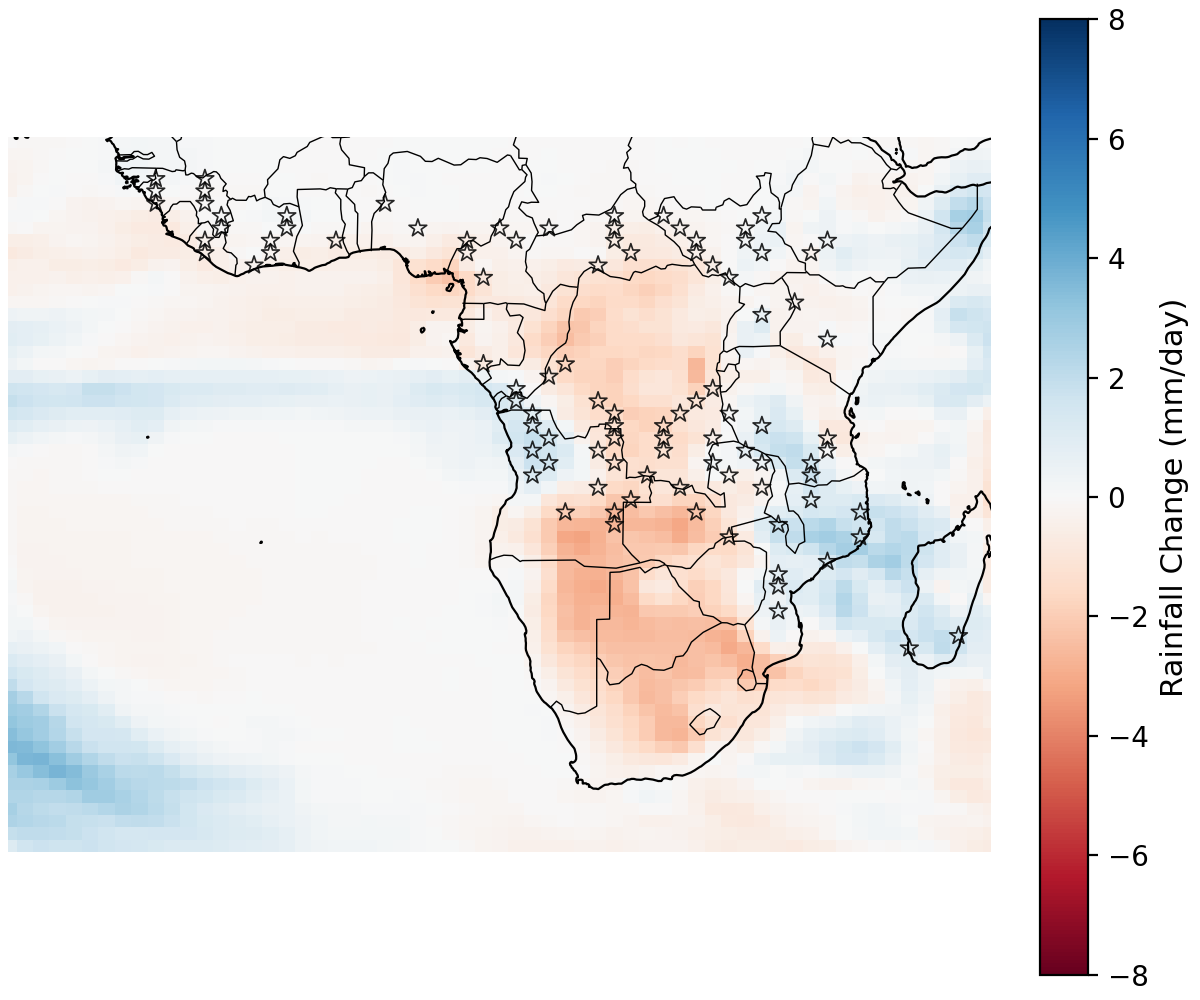
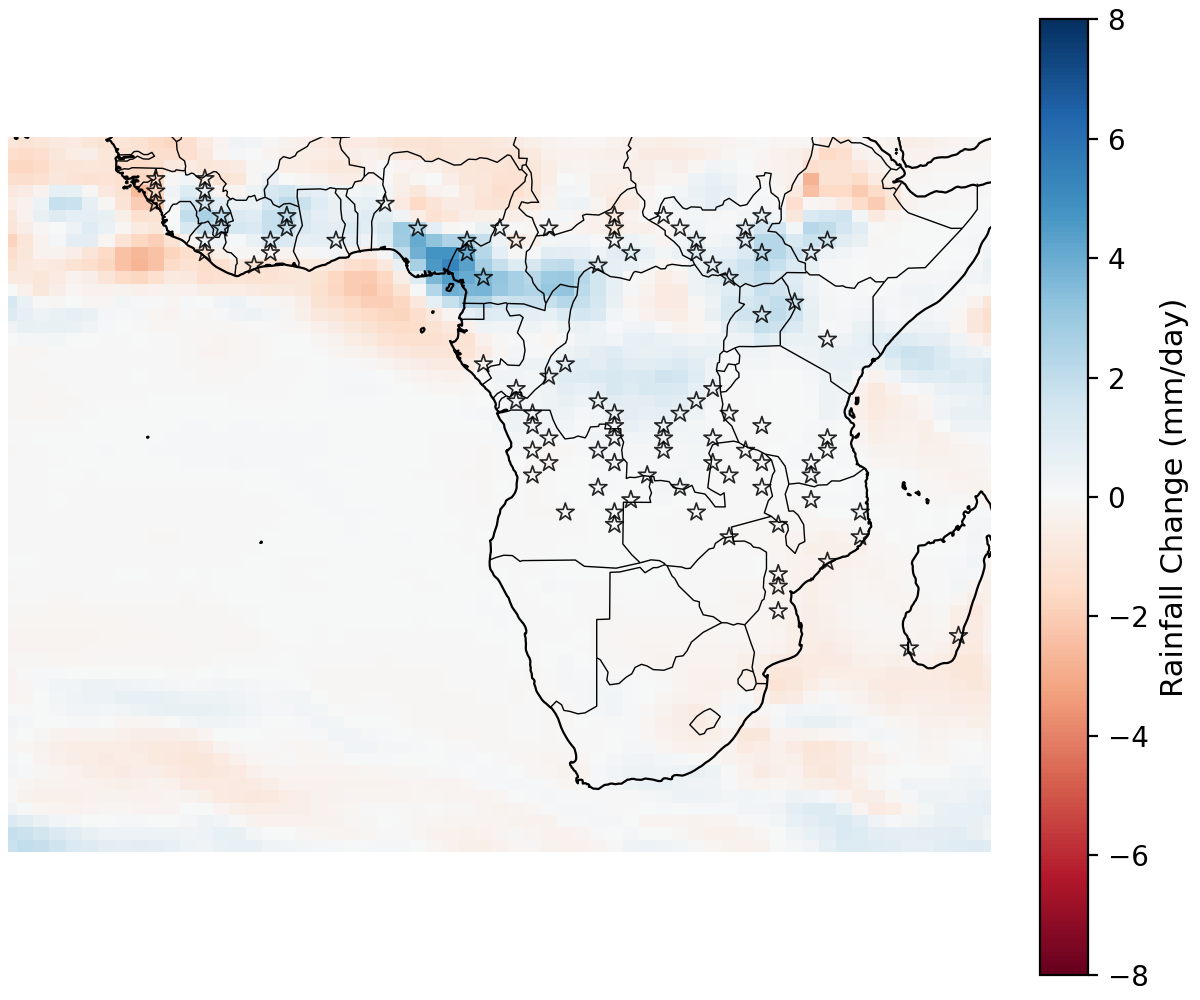
Fixed all landcover

diff --git a/main.js b/main.js
@@ -834,7 +834,6 @@ const monsoonJourneys = {
     region: "South Asia",
     steps: [
       {
-        label: "Baseline",
         img: "landcover/diff_seasonal_ISM_base.png",
         caption: "Change in seasonal rainfall for the ISM region",
         title: "Start with the big picture",
@@ -842,10 +841,9 @@ const monsoonJourneys = {
         bullets: []
       },
       {
-        label: "Forests",
         img: "landcover/diff_seasonal_ISM_forest.png",
         caption: "Triangles mark forested areas overlaid on the rainfall change map.",
-        title: "Forests on steeper slopes face rising flood and landslide risk",
+        title: "Forests",
         body: "In the Eastern Himalayas, projected drying weakens forest moisture and increases the risk of drought stress, wildfire, and ecosystem decline. In contrast, forests across the Deccan Plateau sit beneath much heavier monsoon rainfall, where steep terrain and saturated soils raise the risk of landslides, erosion, and flash flooding.",
         bullets: [
           "Protect forest cover to retain moisture, reduce wildfire risk, and stabilize fragile drying soils",
@@ -854,10 +852,9 @@ const monsoonJourneys = {
         ]
       },
       {
-        label: "Grasslands & wetlands",
         img: "landcover/diff_seasonal_ISM_grassland.png",
         caption: "Circles highlight grassland and wetland areas.",
-        title: "Floodplains and wetlands store or lose water",
+        title: "Grasslands & Wetlands",
         body: "Across the Himalayas, higher monsoon rainfall increases flood peaks, testing wetlands’ ability to slow and store excess water.",
         bullets: [
           "Restore and protect wetlands to absorb flood surges and reduce downstream flooding",
@@ -865,25 +862,13 @@ const monsoonJourneys = {
         ]
       },
       {
-        label: "Croplands",
         img: "landcover/diff_seasonal_ISM_cropland.png",
         caption: "Squares mark major cropland areas.",
-        title: "Croplands feel every shift in timing and totals",
+        title: "Croplands",
         body: "Across the Deccan Plateau and central India, rising monsoon rainfall increases the risk of waterlogging, crop disease, and soil erosion. Meanwhile, parts of the eastern Indo-Gangetic Plain and Northeast India face declining seasonal rainfall, increasing drought stress and irrigation demand even within regions traditionally supported by monsoons.",
         bullets: [
           "For wetter croplands: Improve drainage systems and adopt flood-tolerant or shorter-season crop varieties",
           "For drier croplands: Shift toward drought-tolerant crops, expand water-use efficiency, and protect groundwater supplies",
-        ]
-      },
-      {
-        label: "All Land cCvers",
-        img: "landcover/diff_seasonal_ISM_all.png",
-        caption: "All land-cover symbols combined on the rainfall change map.",
-        title: "Different landscapes, different risks",
-        body: "Forests, wetlands, and croplands sit inside the same shifting monsoon, but the impacts and solutions look different in each place.",
-        bullets: [
-          "Policies need to be tailored by land use, not just by region.",
-          "The same rainfall change can be a flood risk in one place and a drought risk in another."
         ]
       }
     ]
@@ -894,55 +879,48 @@ const monsoonJourneys = {
     region: "Sahel & West Africa",
     steps: [
       {
-        label: "Baseline",
         img: "landcover/diff_seasonal_WAM_base.png",
         caption: "Seasonal rainfall change across the WAM region.",
-        title: "A monsoon with sharp north–south contrasts",
+        title: "Start with the big picture",
         body: "Future rainfall shifts differently across the Sahel, coastal West Africa, and inland regions.",
         bullets: []
       },
       {
-        label: "Forests",
         img: "landcover/diff_seasonal_WAM_forest.png",
         caption: "Forested zones overlaid on rainfall change.",
-        title: "Forest fragments face both drying and downpours",
-        body: "Remaining forest areas experience more variable rainfall, stressing biodiversity and local water supply.",
+        title: "Forests",
+        body: "Forests cluster almost entirely inside blue zones.",
         bullets: [
-          "Protecting forest corridors helps species migrate as climate shifts.",
-          "Community forestry can pair conservation with livelihoods."
+          "Expand reforestation and buffer zones to stabilize soils and protect downstream farming communities",
+          "Preserve intact forests to absorb runoff and limit erosion"
         ]
       },
       {
-        label: "Grasslands & Savannas",
         img: "landcover/diff_seasonal_WAM_savanna.png",
-        caption: "Grassland and savanna systems across the Sahel.",
-        title: "Pastoral systems live on the edge of change",
-        body: "Grazing lands respond quickly to rainfall anomalies.",
+        caption: "Savanna systems across the Sahel.",
+        title: "Savannas",
+        body: "Unlike forest zones or croplands, these regions show only modest changes in total rainfall, falling mostly in lightly wetter conditions.",
         bullets: [
-          "Supporting mobile herding routes can reduce overgrazing hot spots.",
-          "Water points and fodder reserves buffer dry years."
+          "Manage grazing pressure and soil health to prevent savanna degradation from pushing further deforestation into neighboring forest zones, where heavier rainfall already increases erosion and flood risk",
         ]
       },
       {
-        label: "Croplands",
+        img: "landcover/diff_seasonal_WAM_grassland.png",
+        caption: "Grassland systems across the Sahel.",
+        title: "Grasslands & Wetlands",
+        body: "Most sites show little change overall, but scattered zones swing wetter or drier, hinting at locally uneven impacts on grazing and water supply.",
+        bullets: [
+          "Manage grazing pressure and soil health to prevent savanna degradation from pushing further deforestation into neighboring forest zones, where heavier rainfall already increases erosion and flood risk",
+        ]
+      },
+      {
         img: "landcover/diff_seasonal_WAM_cropland.png",
         caption: "Cropland areas overlaid on rainfall change.",
-        title: "Rain-fed farms depend on a narrower rainy season",
-        body: "Shorter or weaker rainy seasons can reduce yields and increase year-to-year volatility.",
+        title: "Croplands",
+        body: "Across the West African Monsoon region, croplands lie in both increasing-rainfall coastal belts and drying interior or Sahel transition zones, exposing farmers to opposite climate pressures within the same food system.",
         bullets: [
-          "Soil-moisture conservation and agroforestry help hold water in the root zone.",
-          "Diversifying income beyond a single staple crop reduces household risk."
-        ]
-      },
-      {
-        label: "All land covers",
-        img: "landcover/diff_seasonal_WAM_all.png",
-        caption: "All land-cover types combined.",
-        title: "Multiple land uses sharing one stressed monsoon",
-        body: "Water decisions for cities, farms, forests, and grazing lands all draw on the same changing rainfall budget.",
-        bullets: [
-          "Integrated basin-scale planning is key to avoid conflicts.",
-          "Early-warning systems can help communities adapt in advance."
+          "For wetter croplands: Improve drainage and soil management to reduce flooding and erosion amplified by intensified rainfall flowing out of nearby forested hills",
+          "For drier croplands: Shift toward drought-tolerant crops and water-conserving practices to limit yield loss and reduce pressure to clear adjacent forests and savannas"
         ]
       }
     ]
@@ -953,57 +931,43 @@ const monsoonJourneys = {
     region: "Amazon & Brazil",
     steps: [
       {
-        label: "Baseline",
         img: "landcover/diff_seasonal_SAM_base.png",
         caption: "Rainfall change across the SAM region without land cover.",
-        title: "A monsoon shifting toward the equator",
+        title: "Start with the big picture",
         body: "Northern Amazon tends to get wetter while parts of southern Brazil dry out.",
         bullets: []
       },
       {
-        label: "Forests",
         img: "landcover/diff_seasonal_SAM_forest.png",
         caption: "Amazon forests overlaid on rainfall change.",
-        title: "Rainforest stability depends on both rain and land use",
-        body: "Even where rainfall increases, deforestation can push forests toward more fire-prone states.",
+        title: "Forests",
+        body: "Most of the Amazon rainforest sits within zones where South American Monsoon rainfall is projected to decline, exposing forests to increasing drought stress, wildfire risk, and potential ecosystem dieback.",
         bullets: [
-          "Reducing deforestation and degradation limits fire risk.",
-          "Forest restoration can help recycle moisture back into the atmosphere."
+          "Protect intact forests to retain moisture recycling and reduce fire vulnerability during prolonged dry seasons",
+          "Forest restoration can help recycle moisture back into the atmosphere",
+          "Limit deforestation and burning, which amplify drought impacts and weaken rainfall recycling"
         ]
       },
       {
-        label: "Grasslands & savannas",
+        img: "landcover/diff_seasonal_WAM_savanna.png",
+        caption: "Savanna systems across the Sahel.",
+        title: "Savannas",
+        body: "Savannas sit between the drying Amazon interior and the wetter eastern and coastal regions.",
+        bullets: [
+          "For drier savannas: Protect grasslands to slow desertification and act as buffers against wildfire spread from forests",
+          "For wetter savannas: Use erosion control and landscape planning to manage runoff intensifying as rainfall increases"
+        ]
+      },
+      {
         img: "landcover/diff_seasonal_SAM_grassland.png",
         caption: "Grassland and savanna regions such as the Cerrado.",
-        title: "Transition zones feel drought and fire first",
-        body: "These ecosystems are especially sensitive to drier conditions and land-use change.",
+        title: "Grasslands & Wetlands",
+        body: "Grasslands and wetlands lie mostly in zones where monsoon rainfall is increasing, even as the nearby Amazon rainforest experiences widespread drying",
         bullets: [
-          "Protecting remaining savannas prevents irreversible biome shifts.",
-          "Fire-management plans are crucial under hotter, drier extremes."
+          "Restore wetlands to absorb excess rainfall generated as atmospheric moisture shifts away from drying forest regions",
+          "Avoid hard infrastructure in natural drainage corridors to preserve flood buffering capacity"
         ]
       },
-      {
-        label: "Croplands",
-        img: "landcover/diff_seasonal_SAM_cropland.png",
-        caption: "Cropland regions across Brazil and neighbors.",
-        title: "Expanding agriculture collides with changing rain",
-        body: "Soy, cattle, and other agricultural expansion often overlaps with areas trending drier.",
-        bullets: [
-          "Shifting planting dates and varieties can track changing rainy seasons.",
-          "Limiting deforestation in upstream catchments supports downstream water security."
-        ]
-      },
-      {
-        label: "All Land Covers",
-        img: "landcover/diff_seasonal_SAM_all.png",
-        caption: "All land covers on top of the rainfall change map.",
-        title: "A shared monsoon, many possible futures",
-        body: "The Amazon basin’s climate future depends on both emissions pathways and local land-use choices.",
-        bullets: [
-          "Keeping forests standing protects regional rainfall patterns.",
-          "Coordinated policies across countries are needed because the monsoon ignores borders."
-        ]
-      }
     ]
   }
 };
